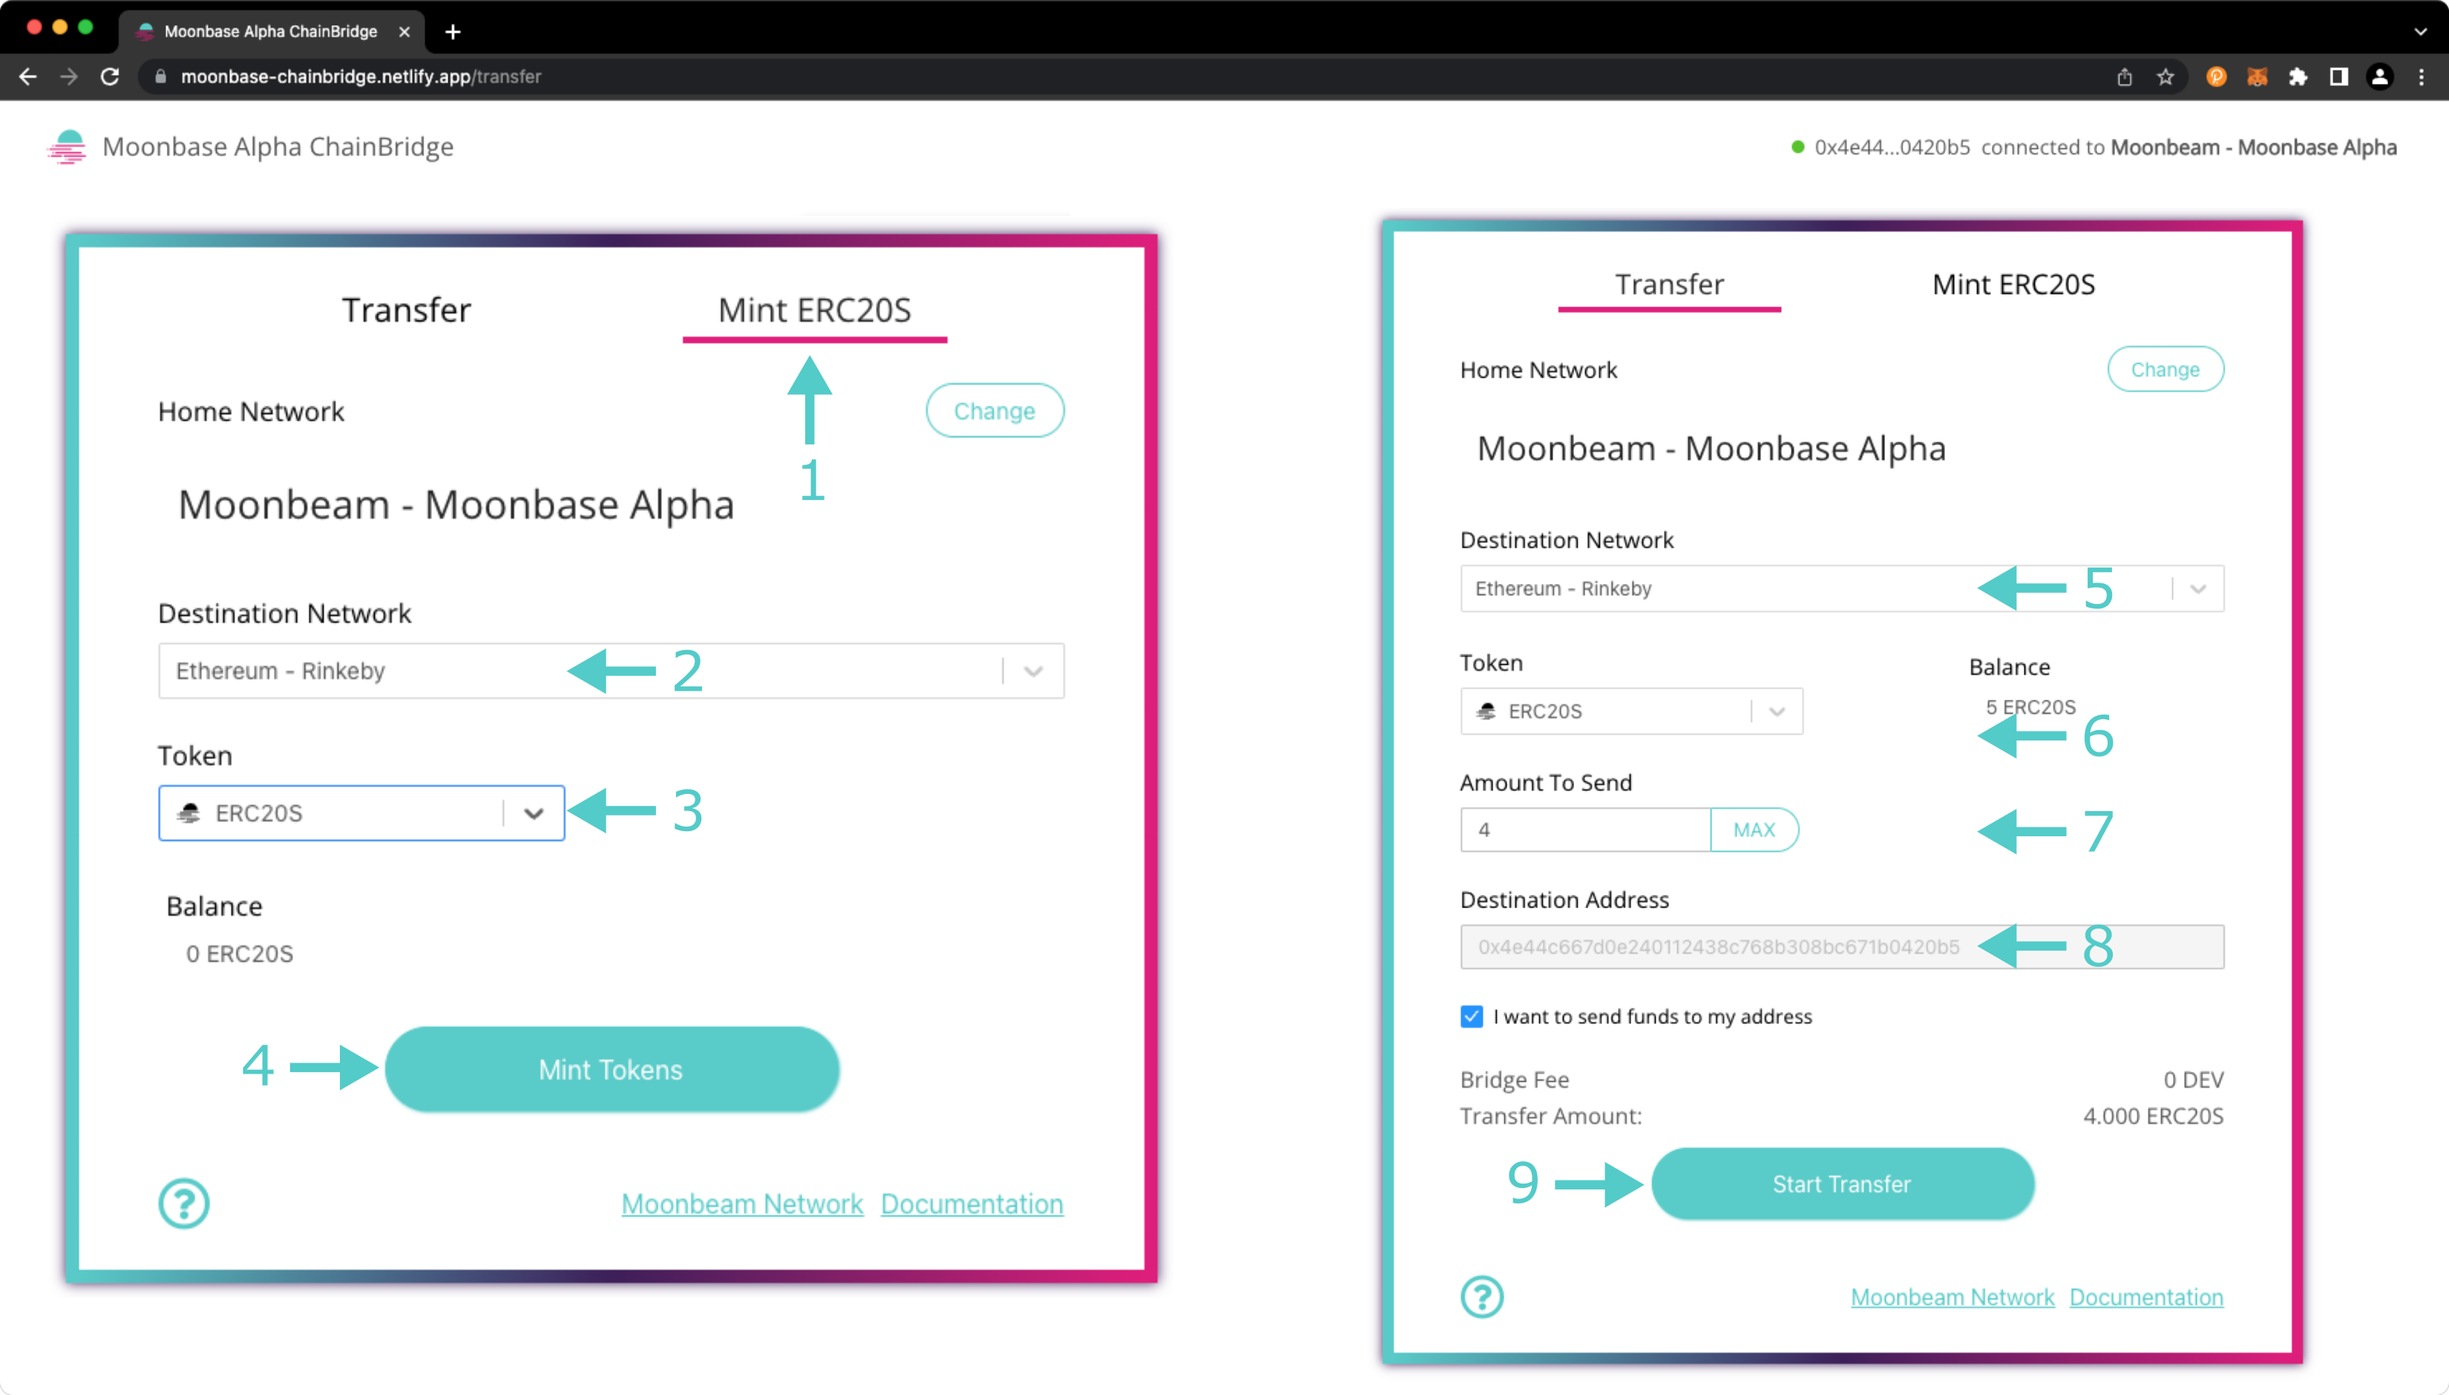
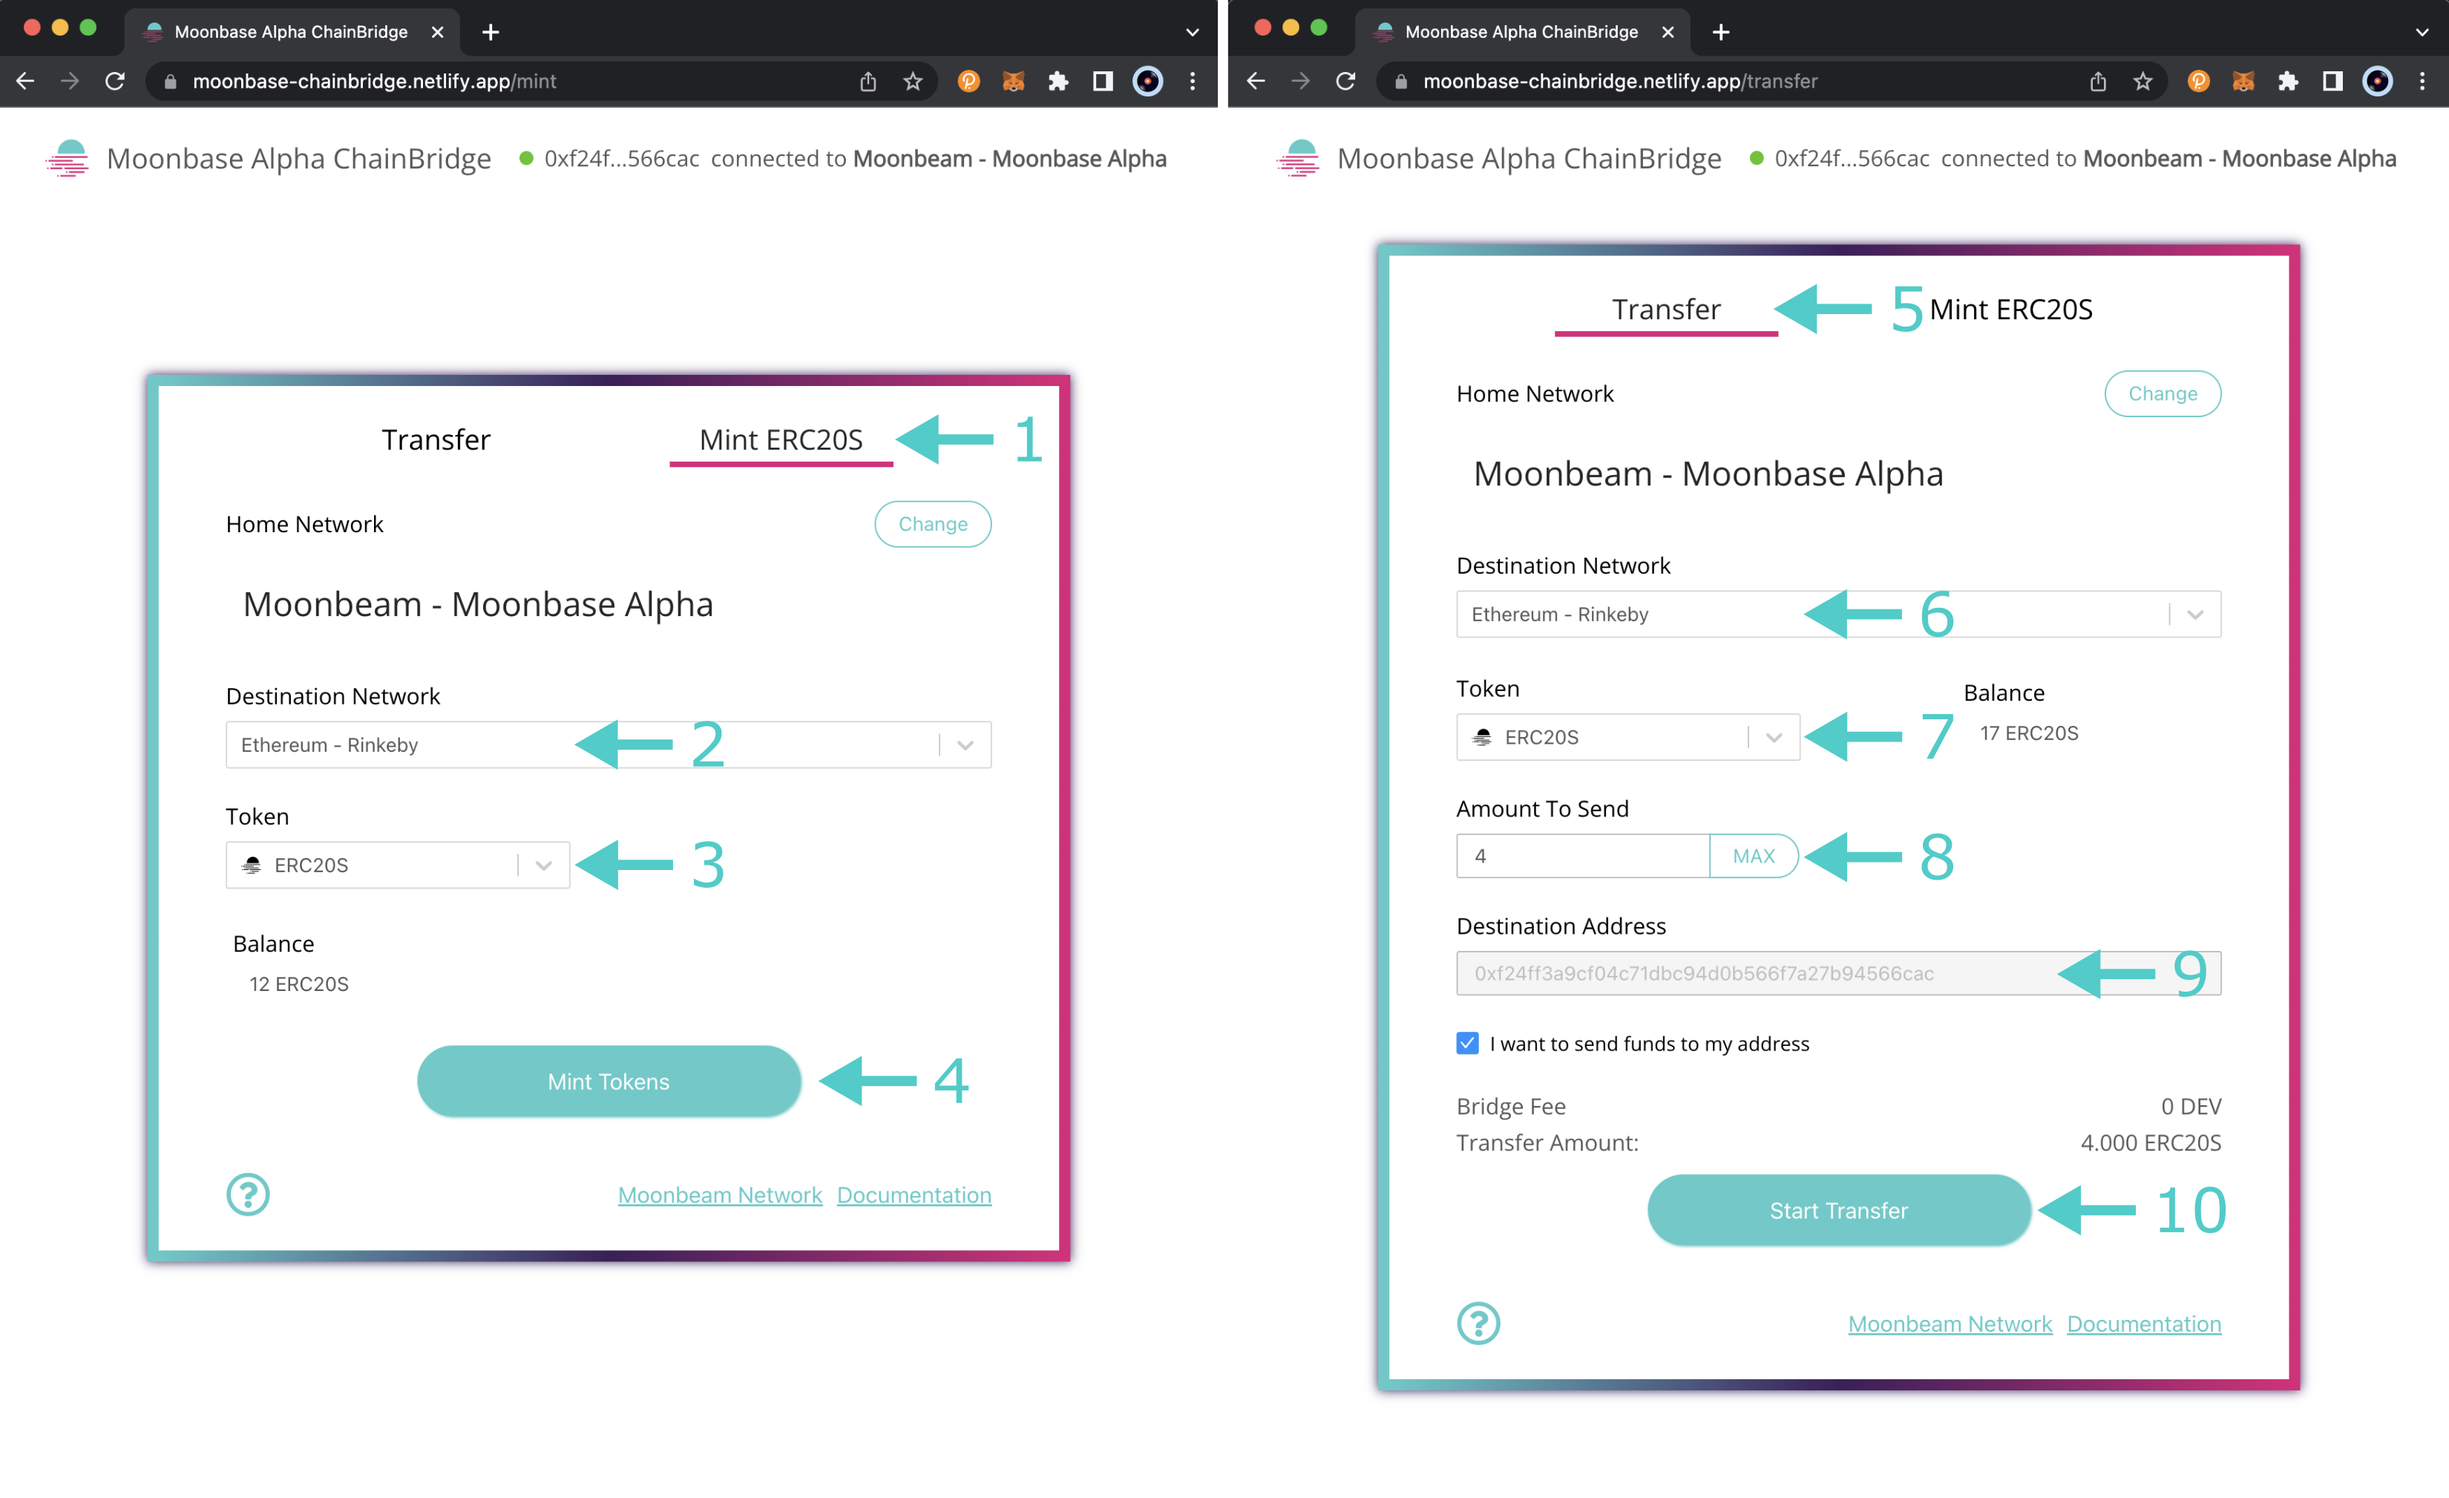
update a few images

diff --git a/builders/get-started/networks/moonbase.md b/builders/get-started/networks/moonbase.md
@@ -39,9 +39,9 @@ To start building on Moonbase Alpha, you can get DEV tokens from our faucet, nam
 
 To request tokens automatically, we've created a Discord bot (named Mission Control :sunglasses:) that will automatically send a maximum of 5 DEV tokens every 24 hours (per Discord user) when you enter your address. You can check it out on our [Discord channel](https://discord.gg/PfpUATX).
  
-Under the category "Miscellaneous," you will find our **#Moonbase-Faucet** channel. 
+Under the category **Miscellaneous**, you will find our **#Moonbase-Faucet** channel. 
 
-![Discord1](/images/builders/get-started/networks/moonbase/moonbase-1.png)
+![Moonbase faucet channel on Discord](/images/builders/get-started/networks/moonbase/moonbase-1.png)
 
 To check your balance, enter the following message, replacing `<enter-address-here->` with your H160 address:
 
@@ -57,7 +57,7 @@ To get DEV tokens, enter the following message, replacing `<enter-address-here->
 
 Mission Control will send you 5 DEV tokens and display your current account balance. Remember that Mission Control is limited to dispense once every 24 hours per Discord user.
 
-![Discord2](/images/builders/get-started/networks/moonbase/moonbase-2.png)
+![Faucet send command example](/images/builders/get-started/networks/moonbase/moonbase-2.png)
 
 !!! note
     Moonbase Alpha DEV tokens have no value. Please don't spam the faucet with unnecessary requests.
@@ -92,10 +92,11 @@ The [Moonbase ERC-20 Minter](https://moonbase-minterc20.netlify.app/){target=_bl
 
 [Moonbeam Uniswap](https://moonbeam-swap.netlify.app/#/swap){target=_blank} is a fork of [Uniswap-V2](https://uniswap.org/blog/uniswap-v2){target=_blank} deployed to Moonbase Alpha. Notably, Moonbeam Uniswap allows developers to easily make a swap to acquire [cross chain assets](/builders/xcm/xc20/) such as xcKarura or xcUNITs for XCM testing purposes. To perform your first swap, take the following steps:
 
-1. Connect your MetaMask wallet and ensure you're on the Moonbase Alpha network
-2. Press **Select a token** and press **Choose a List** on the prompt
-3. Select **Moon Menu** 
-4. Search for or select your desired asset from the list then continue with the swap
+1. Press **Select a token** 
+2. Connect your MetaMask wallet and ensure you're on the Moonbase Alpha network
+3. Press **Choose a List** on the prompt
+4. Select **Moon Menu** 
+5. Search for or select your desired asset from the list then continue with the swap
 
 ![Moonbeam Swap](/images/builders/get-started/networks/moonbase/moonbase-4.png)
 
@@ -120,25 +121,29 @@ The [MoonLink Dashboard](https://moonlink-dashboard.netlify.app/){target=_blank}
 
 ### Moonbeam WalletConnect {: #moonbeam-walletconnect } 
 
-[Moonbeam WalletConnect](https://moonbeam-walletconnect-demo.netlify.app/){target=_blank} shows how easy it is to integrate [WalletConnect](https://walletconnect.com/){target=_blank} into your DApps and unlock support for a great variety of crypto wallets. Be sure to check out the [demo app repository](https://github.com/PureStake/moonbeam-walletconnect-demo){target=_blank} to see exactly how the WalletConnect integration works. To get started, press **Connect Wallet** and scan the QR code using a [wallet compatible with WalletConnect.](https://walletconnect.com/registry?type=wallet){target=_blank}
+[Moonbeam WalletConnect](https://moonbeam-walletconnect-demo.netlify.app/){target=_blank} shows how easy it is to integrate [WalletConnect](https://walletconnect.com/){target=_blank} into your DApps and unlock support for a great variety of crypto wallets. Be sure to check out the [demo app repository](https://github.com/PureStake/moonbeam-walletconnect-demo){target=_blank} to see exactly how the WalletConnect integration works. To get started, you can take the following steps:
 
-![MoonBeam WalletConnect](/images/builders/get-started/networks/moonbase/moonbase-7.png)
+1. Press **Connect Wallet**
+2. Scan the QR code using a [wallet compatible with WalletConnect](https://walletconnect.com/registry?type=wallet){target=_blank}
+
+![Moonbeam WalletConnect](/images/builders/get-started/networks/moonbase/moonbase-7.png)
 
 ### Moonbase ChainBridge {: #moonbase-chainbridge } 
 
-[Moonbase ChainBridge](https://moonbase-chainbridge.netlify.app/transfer){target=_blank} enables you to bridge ERC-20 tokens from Moonbase Alpha to Ethereum's Rinkeby and Kovan testnets and vice versa. Be sure to check out [the step-by-step guide on using ChainBridge's Ethereum Moonbeam Bridge](/builders/integrations/bridges/chainbridge/){target=_blank} for more information on using ChainBridge's ERC-20, ERC-721, and Generic Handlers. You can also check out the [Moonbase ChainBridge repository](https://github.com/PureStake/chainbridge-ui){target=_blank}. To initiate a bridge transfer, take the following steps:
+[Moonbase ChainBridge](https://moonbase-chainbridge.netlify.app/transfer){target=_blank} enables you to bridge ERC-20 tokens from Moonbase Alpha to Ethereum's Rinkeby and Kovan testnets and vice versa. Be sure to check out [the step-by-step guide on using ChainBridge's Ethereum Moonbeam Bridge](/builders/integrations/bridges/chainbridge/){target=_blank} for more information on using ChainBridge's ERC-20, ERC-721, and Generic Handlers. You can also check out the [Moonbase ChainBridge repository](https://github.com/PureStake/chainbridge-ui){target=_blank}. To initiate a bridge transfer, connect your MetaMask wallet and ensure you're on the Moonbase Alpha network, and take the following steps:
 
-1. Connect your MetaMask wallet and ensure you're on the Moonbase Alpha network, then click **Mint**
+1. Click **Mint ERC20S**
 2. Specify a destination network (although the minted tokens will be the same regardless of destination)
 3. Select **ERC20S** from the **Token** dropdown
 4. Press **Mint Tokens** and confirm the transaction in MetaMask
-5. Return to the **Transfer** tab and select the destination network
-6. Select **ERC20S** from the **Token** dropdown
-7. Specify the amount to bridge
-8. Enter a destination address or check **I want to send funds to my address**
-9. Press **Start Transfer** and **Confirm** the transaction in MetaMask. The DApp will update you on the status of the bridge transfer
+5. Return to the **Transfer** tab
+6. Select the destination network
+7. Select **ERC20S** from the **Token** dropdown
+8. Specify the amount to bridge
+9. Enter a destination address or check **I want to send funds to my address**
+10. Press **Start Transfer** and **Confirm** the transaction in MetaMask. The DApp will update you on the status of the bridge transfer
 
-![Moonbase Chainbridge](/images/builders/get-started/networks/moonbase/moonbase-8.png)
+![Moonbase ChainBridge](/images/builders/get-started/networks/moonbase/moonbase-8.png)
 
 ### MoonGas {: #moongas } 
 
@@ -146,4 +151,4 @@ The [MoonLink Dashboard](https://moonlink-dashboard.netlify.app/){target=_blank}
 
 You'll notice that the minimum gas price for Moonbeam is 100 Gwei, while the minimum for Moonriver and Moonbase Alpha is only 1 Gwei. This difference stems from the [100 to 1 re-denomination of GLMR](https://moonbeam.foundation/news/moonbeam-community-announcement/){target=_blank} and thus the 100 Gwei minimum on Moonbeam corresponds to a 1 Gwei minimum on Moonriver and Moonbeam. 
 
-![MoonBeam WalletConnect](/images/builders/get-started/networks/moonbase/moonbase-9.png)
+![MoonGas](/images/builders/get-started/networks/moonbase/moonbase-9.png)
